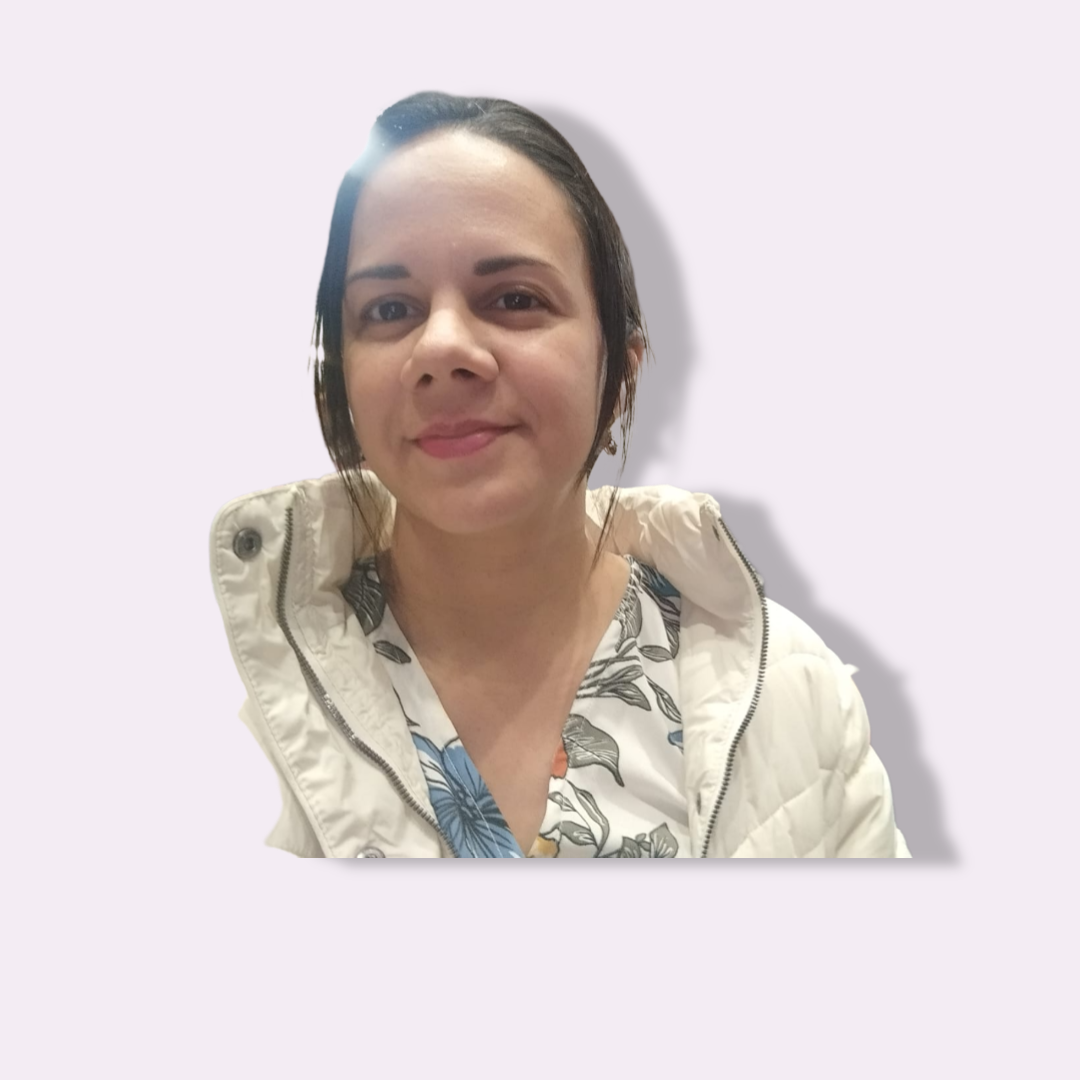
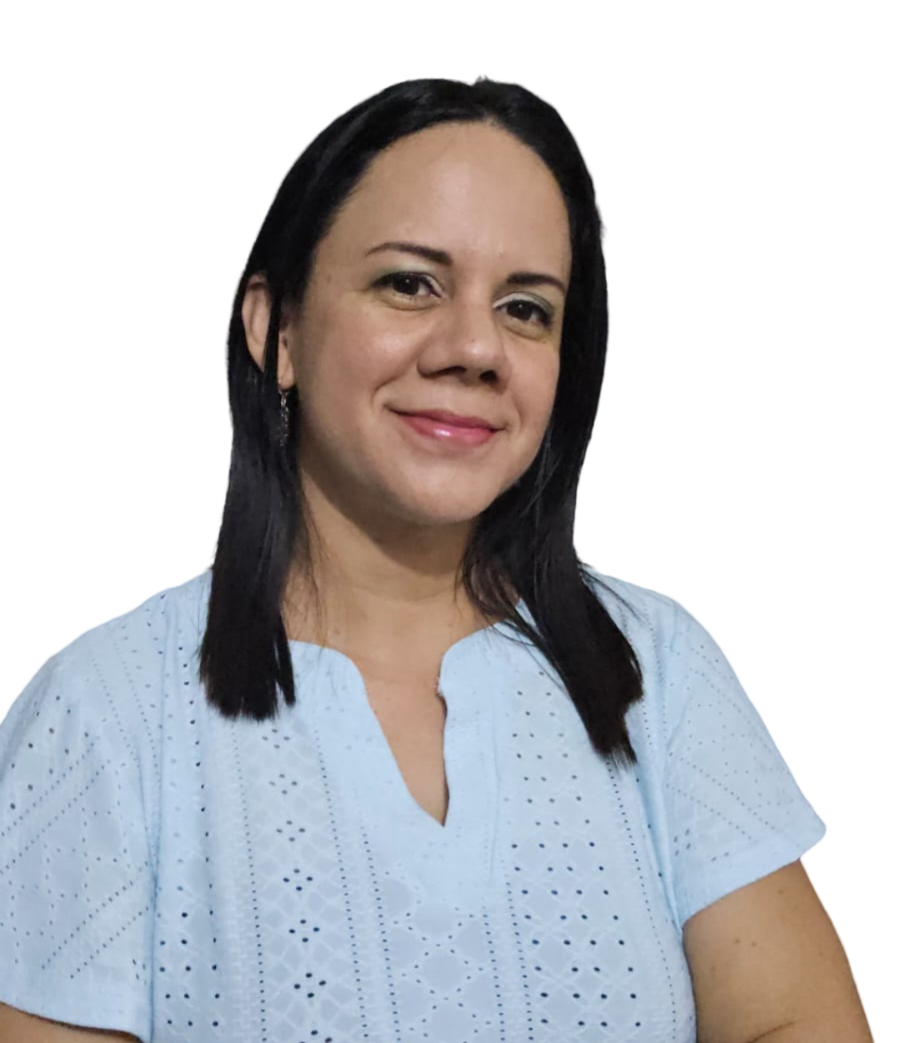
Update styles

diff --git a/src/i18n.ts b/src/i18n.ts
@@ -187,45 +187,45 @@ const resources = {
       },
       portfolio: {
         title: "Portafolio",
-        button: "Ingresa a mi Github",
+        button: "Ver en GitHub",
         projects: [
           {
-            title: "SPA Website",
-            description: "Responsive web for a SPA with an attractive design and contact form, using HTML and CSS.",
+            title: "Sitio Web SPA",
+            description: "Sitio web responsivo para una SPA con un formulario de contacto, desarrollado con HTML y CSS, diseño atractivo y funcional.",
             link: "https://katitafranco.github.io/web_spa_responsive/index.html",
-            image: "./assets/imagenSPA.png",
+            image: "./assets/imagenSPA.png"
           },
           {
-            title: "Tourism Website",
-            description: "Responsive web to explore tourist destinations, using HTML, CSS, and SASS.",
+            title: "Sitio Web de Turismo",
+            description: "Aplicación web responsiva para explorar destinos turísticos, utilizando HTML, CSS y SASS.",
             link: "https://katitafranco.github.io/dynamic-travel-sass/dist/index.html",
-            image: "./assets/imagenTurismo.png", // Replace with your project's image
+            image: "./assets/imagenTurismo.png"
           },
           {
-            title: "Business Agency",
-            description: "Responsive web with HTML, CSS, JS, animations, and video.",
+            title: "Agencia de Negocios",
+            description: "Sitio web responsivo para una agencia de negocios con HTML, CSS, JS, animaciones y video.",
             link: "https://katitafranco.github.io/biz-agency-site/",
-            image: "./assets/imagenBusiness.png",
+            image: "./assets/imagenBusiness.png"
           },
           {
-            title: "Hosting Quotation Tool",
-            description: "Responsive layout for a hosting quotation tool using Flexbox.",
+            title: "Calculadora de Precios de Hosting",
+            description: "Diseño responsivo de una calculadora de precios de hosting usando Flexbox.",
             link: "https://katitafranco.github.io/flex-cotizador-hosting/",
-            image: "./assets/imagenCotizador.png", // Replace with your project's image
+            image: "./assets/imagenCotizador.png"
           },
           {
-            title: "Interactive Testimonials",
-            description: "Interactive testimonial slider using HTML, CSS, and JavaScript.",
+            title: "Testimonios Interactivos",
+            description: "Página web con un slider de testimonios interactivo, utilizando HTML, CSS y JavaScript nativo con transiciones suaves.",
             link: "https://katitafranco.github.io/slider-testimonios-js/",
-            image: "./assets/imagenSliders.png",
+            image: "./assets/imagenSliders.png"
           },
           {
-            title: "MERN User CRUD",
-            description: "User CRUD application with MongoDB, Express, React, Node.js, AOS, and SweetAlert2.",
+            title: "CRUD de Usuarios MERN",
+            description: "Aplicación CRUD de usuarios utilizando MongoDB, Mongoose, Express, React, Node.js con animaciones AOS y notificaciones SweetAlert2.",
             link: "https://github.com/katitafranco/crud-mern-stack/tree/master",
-            image: "./assets/imagenCRUD2.png",
-          },
-        ],
+            image: "./assets/imagenCRUD2.png"
+          }
+        ]
       },
       "testimonials": {
         "title": "Testimonios",

diff --git a/src/sections/Footer.tsx b/src/sections/Footer.tsx
@@ -38,35 +38,41 @@ const Footer = () => {
       <div className="container mx-auto px-4">
         <div className="flex justify-center space-x-8">
           {/* GitHub */}
-          <a
-            href="https://github.com/katitafranco"
-            target="_blank"
-            rel="noopener noreferrer"
-            className="flex flex-col items-center hover:text-purple transition-all"
-          >
-            <FontAwesomeIcon icon={faGithub} size="2x" />
-            <p className="text-xs mt-2">GitHub</p>
-          </a>
+          <div className="group">
+            <a
+              href="https://github.com/katitafranco"
+              target="_blank"
+              rel="noopener noreferrer"
+              className="flex flex-col items-center group-hover:text-purple transition-all"
+            >
+              <FontAwesomeIcon icon={faGithub} size="2x" />
+              <p className="text-xs mt-2 group-hover:text-purple">GitHub</p>
+            </a>
+          </div>
 
           {/* LinkedIn */}
-          <a
-            href="https://www.linkedin.com/in/katiuska-franco-t/"
-            target="_blank"
-            rel="noopener noreferrer"
-            className="flex flex-col items-center hover:text-purple transition-all"
-          >
-            <FontAwesomeIcon icon={faLinkedin} size="2x" />
-            <p className="text-xs mt-2">LinkedIn</p>
-          </a>
+          <div className="group">
+            <a
+              href="https://www.linkedin.com/in/katiuska-franco-t/"
+              target="_blank"
+              rel="noopener noreferrer"
+              className="flex flex-col items-center group-hover:text-purple transition-all"
+            >
+              <FontAwesomeIcon icon={faLinkedin} size="2x" />
+              <p className="text-xs mt-2 group-hover:text-purple">LinkedIn</p>
+            </a>
+          </div>
 
           {/* Email */}
-          <a
-            href="mailto:kati.franco@gmail.com"
-            className="flex flex-col items-center hover:text-purple transition-all"
-          >
-            <FontAwesomeIcon icon={faEnvelope} size="2x" />
-            <p className="text-xs mt-2">Email</p>
-          </a>
+          <div className="group">
+            <a
+              href="mailto:kati.franco@gmail.com"
+              className="flex flex-col items-center group-hover:text-purple transition-all"
+            >
+              <FontAwesomeIcon icon={faEnvelope} size="2x" />
+              <p className="text-xs mt-2 group-hover:text-purple">Email</p>
+            </a>
+          </div>
         </div>
 
         <p className="text-center mt-4">

diff --git a/src/sections/Hero.tsx b/src/sections/Hero.tsx
@@ -1,3 +1,5 @@
+//Hero.tsx
+
 import { useTranslation } from "react-i18next";
 import imgHero from "../assets/Hero2.png";
 
@@ -7,7 +9,7 @@ const Hero = () => {
   return (
     <section
       id="home"
-      className="flex items-center justify-between h-screen bg-gray-100 p-8"
+      className=" flex items-center justify-around bg-gray-100 px-8 pb-8 h-[90vh] mt-[10vh]"
     >
       {/* Columna de contenido */}
       <div
@@ -15,7 +17,7 @@ const Hero = () => {
         className="flex flex-col justify-center text-left max-w-lg z-10 ml-10"
       >
         <p className="text-purple-600">{t("hero.introduce")}</p>
-        <h1 className="text-4xl font-bold text-purple-800">
+        <h1 className="text-3xl lg:text-4xl font-bold text-purple-800">
           {t("hero.title").split("Frontend")[0]}
           <span className="text-purple">Frontend</span>
           {t("hero.title").split("Frontend")[1].split("React")[0]}
@@ -33,15 +35,25 @@ const Hero = () => {
         </div>
       </div>
 
-      {/* Columna de imagen */}
       <div
         id="imageHero"
-        className="hidden lg:flex flex-shrink-0 items-center justify-center w-1/2 h-full ml-8"
+        className="hidden lg:flex flex-shrink-0 items-center justify-center w-1/2 h-full ml-8 relative "
       >
+        {/* Forma SVG púrpura detrás de la imagen */}
+        <svg
+          viewBox="0 0 500 500"
+          xmlns="http://www.w3.org/2000/svg"
+          className="absolute z-0 left-1/2 top-2/4 transform -translate-x-1/2 -translate-y-1/2 w-[450px] h-[400px]"
+          style={{ fill: "#6C63FF" }}
+        >
+          <path d="M421.5,291.5Q374,333,353,375Q332,417,292,447Q252,477,207.5,457.5Q163,438,124,410Q85,382,63,341Q41,300,33,250Q25,200,47,156.5Q69,113,110,98Q151,83,202,67.5Q253,52,304,71Q355,90,386.5,130.5Q418,171,433.5,210.5Q449,250,421.5,291.5Z" />
+        </svg>
+
+        {/* Imagen del héroe */}
         <img
           src={imgHero}
           alt="Perfil"
-          className="max-h-[70%] w-auto object-cover rounded-t-[50%] shadow-lg -ml-40"
+          className="relative z-10 max-h-[70%] w-auto object-cover rounded-t-[50%] rounded-b-[15%] rounded-br-[25%] "
         />
       </div>
     </section>

diff --git a/src/sections/Testimonials.tsx b/src/sections/Testimonials.tsx
@@ -54,20 +54,22 @@ const TestimonialsSlider = () => {
                 href={testimonial.link}
                 target="_blank"
                 rel="noopener noreferrer"
-                className="w-full h-full "
+                className="w-full h-full group "
               >
                 <img
                   src={testimonial.image}
                   alt={`${testimonial.name} photo`}
                   className="w-12 h-12 rounded-full mx-auto mb-4 "
                 />
-                <h3 className="text-xl font-semibold text-purple hover:text-pink">
+                <h3 className="text-xl font-semibold text-gray-700 group-hover:text-purple">
                   {testimonial.name}
                 </h3>
-                <p className="text-sm text-gray-500 mb-2">
+                <p className="text-sm text-purple mb-2 group-hover:text-pink">
                   {testimonial.company}
                 </p>
-                <p className="text-gray-700 mb-4">"{testimonial.feedback}"</p>
+                <p className="text-gray-700 mb-4 group-hover:text-purple">
+                  "{testimonial.feedback}"
+                </p>
                 <div className="flex justify-center">
                   <span className="text-yellow-500 text-lg">★★★★★</span>
                 </div>

diff --git a/src/components/Logo.tsx b/src/components/Logo.tsx
@@ -1,12 +1,19 @@
 //
 // src/components/Logo.tsx
 const Logo = () => (
-  <div className="text-center lg:mx-10">
+  /*  <div className="text-center lg:mx-10">
     <a
       href="#home"
-      className="text-2x1 font-bold text-purple whitespace-nowrap"
+      className=" font-bold text-purple whitespace-nowrap"
     >
       Katiuska Franco{" "}
+    </a>
+  </div> */
+  <div className="text-gray-800 text-2xl font-bold lg:text-3xl lg:ml-4">
+    <a href="#home" className="font-bold  whitespace-nowrap">
+      <span className="text-purple font-bold">K</span>
+      atiuska <span className="text-purple font-bold ">F</span>
+      ranco
     </a>
   </div>
 );

diff --git a/src/sections/Portfolio.tsx b/src/sections/Portfolio.tsx
@@ -32,7 +32,7 @@ const Portfolio = () => {
             className=" flex flex-row justify-between px-6 pb-0 mb-0 items-center bg-pink text-white rounded-md hover:bg-purple-800 transition-colors "
           > */}
           <a
-            href="https://github.com/katitafranco/"
+            href="https://github.com/katitafranco?tab=repositories"
             target="_blank"
             className="inline-flex flex-row justify-between px-6 sm:px-2 sm:mx-2 py-1 mb-0 items-center bg-pink text-white rounded-md hover:bg-purple-800 transition-colors"
           >

diff --git a/src/sections/Header.tsx b/src/sections/Header.tsx
@@ -6,7 +6,7 @@ import Logo from "../components/Logo";
 
 const Header = () => {
   return (
-    <header className="w-full bg-white shadow-lg fixed top-0 left-0 right-0 z-50 border-b-5 border-purple-600">
+    <header className="w-full h-[10vh] bg-white shadow-lg fixed top-0 left-0 right-0 z-50 border-b-5 border-purple-600 ">
       <div className="max-w-7xl mx-auto flex items-center justify-between p-0">
         {/* Logo */}
         <div className="hidden lg:flex ">
